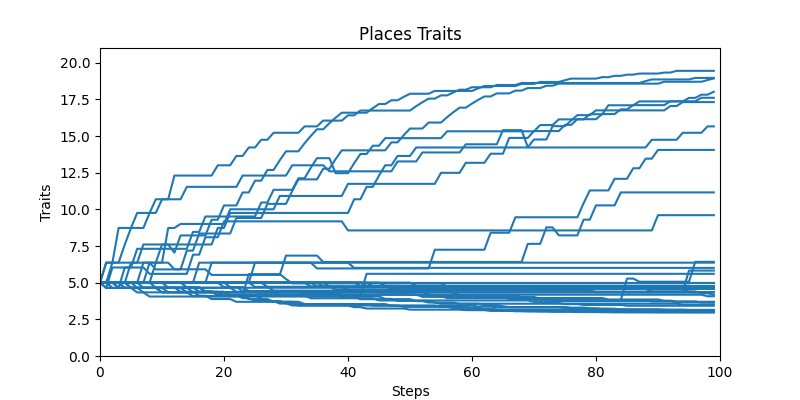
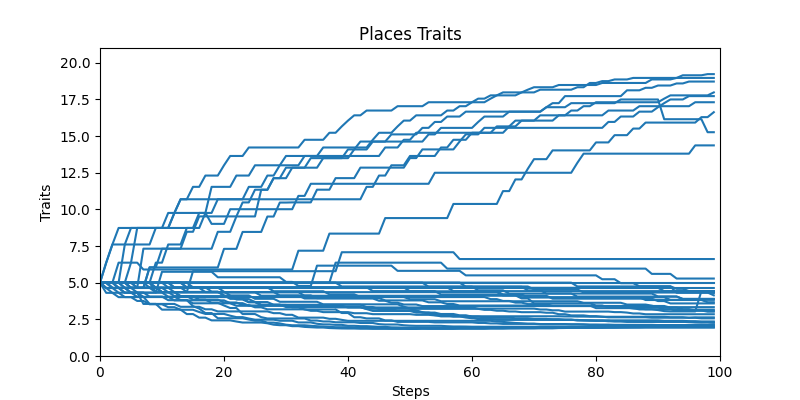
formatting

Changed region(s): [[0.125, 0.15, 0.9062, 0.84], [0.5938, 0.48, 0.625, 0.51], [0.5625, 0.51, 0.5938, 0.54]]

diff --git a/README.md b/README.md
@@ -23,6 +23,11 @@ The result is an evolving urban environment:
 
 ![intro](https://github.com/ipo-exe/abm-cue/blob/main/figs/intro.gif "intro")
 
+The traits of places changes over time:
+
+![intro_places](https://github.com/ipo-exe/abm-cue/blob/main/samples/view_traced_places_traits.png "places")
+
+
 ## Installing and Running CUE on a local machine
 
 > **Note**: see the [installation tutorial for Windows](https://github.com/ipo-exe/abm-cue/blob/main/docs/install_windows.md)
